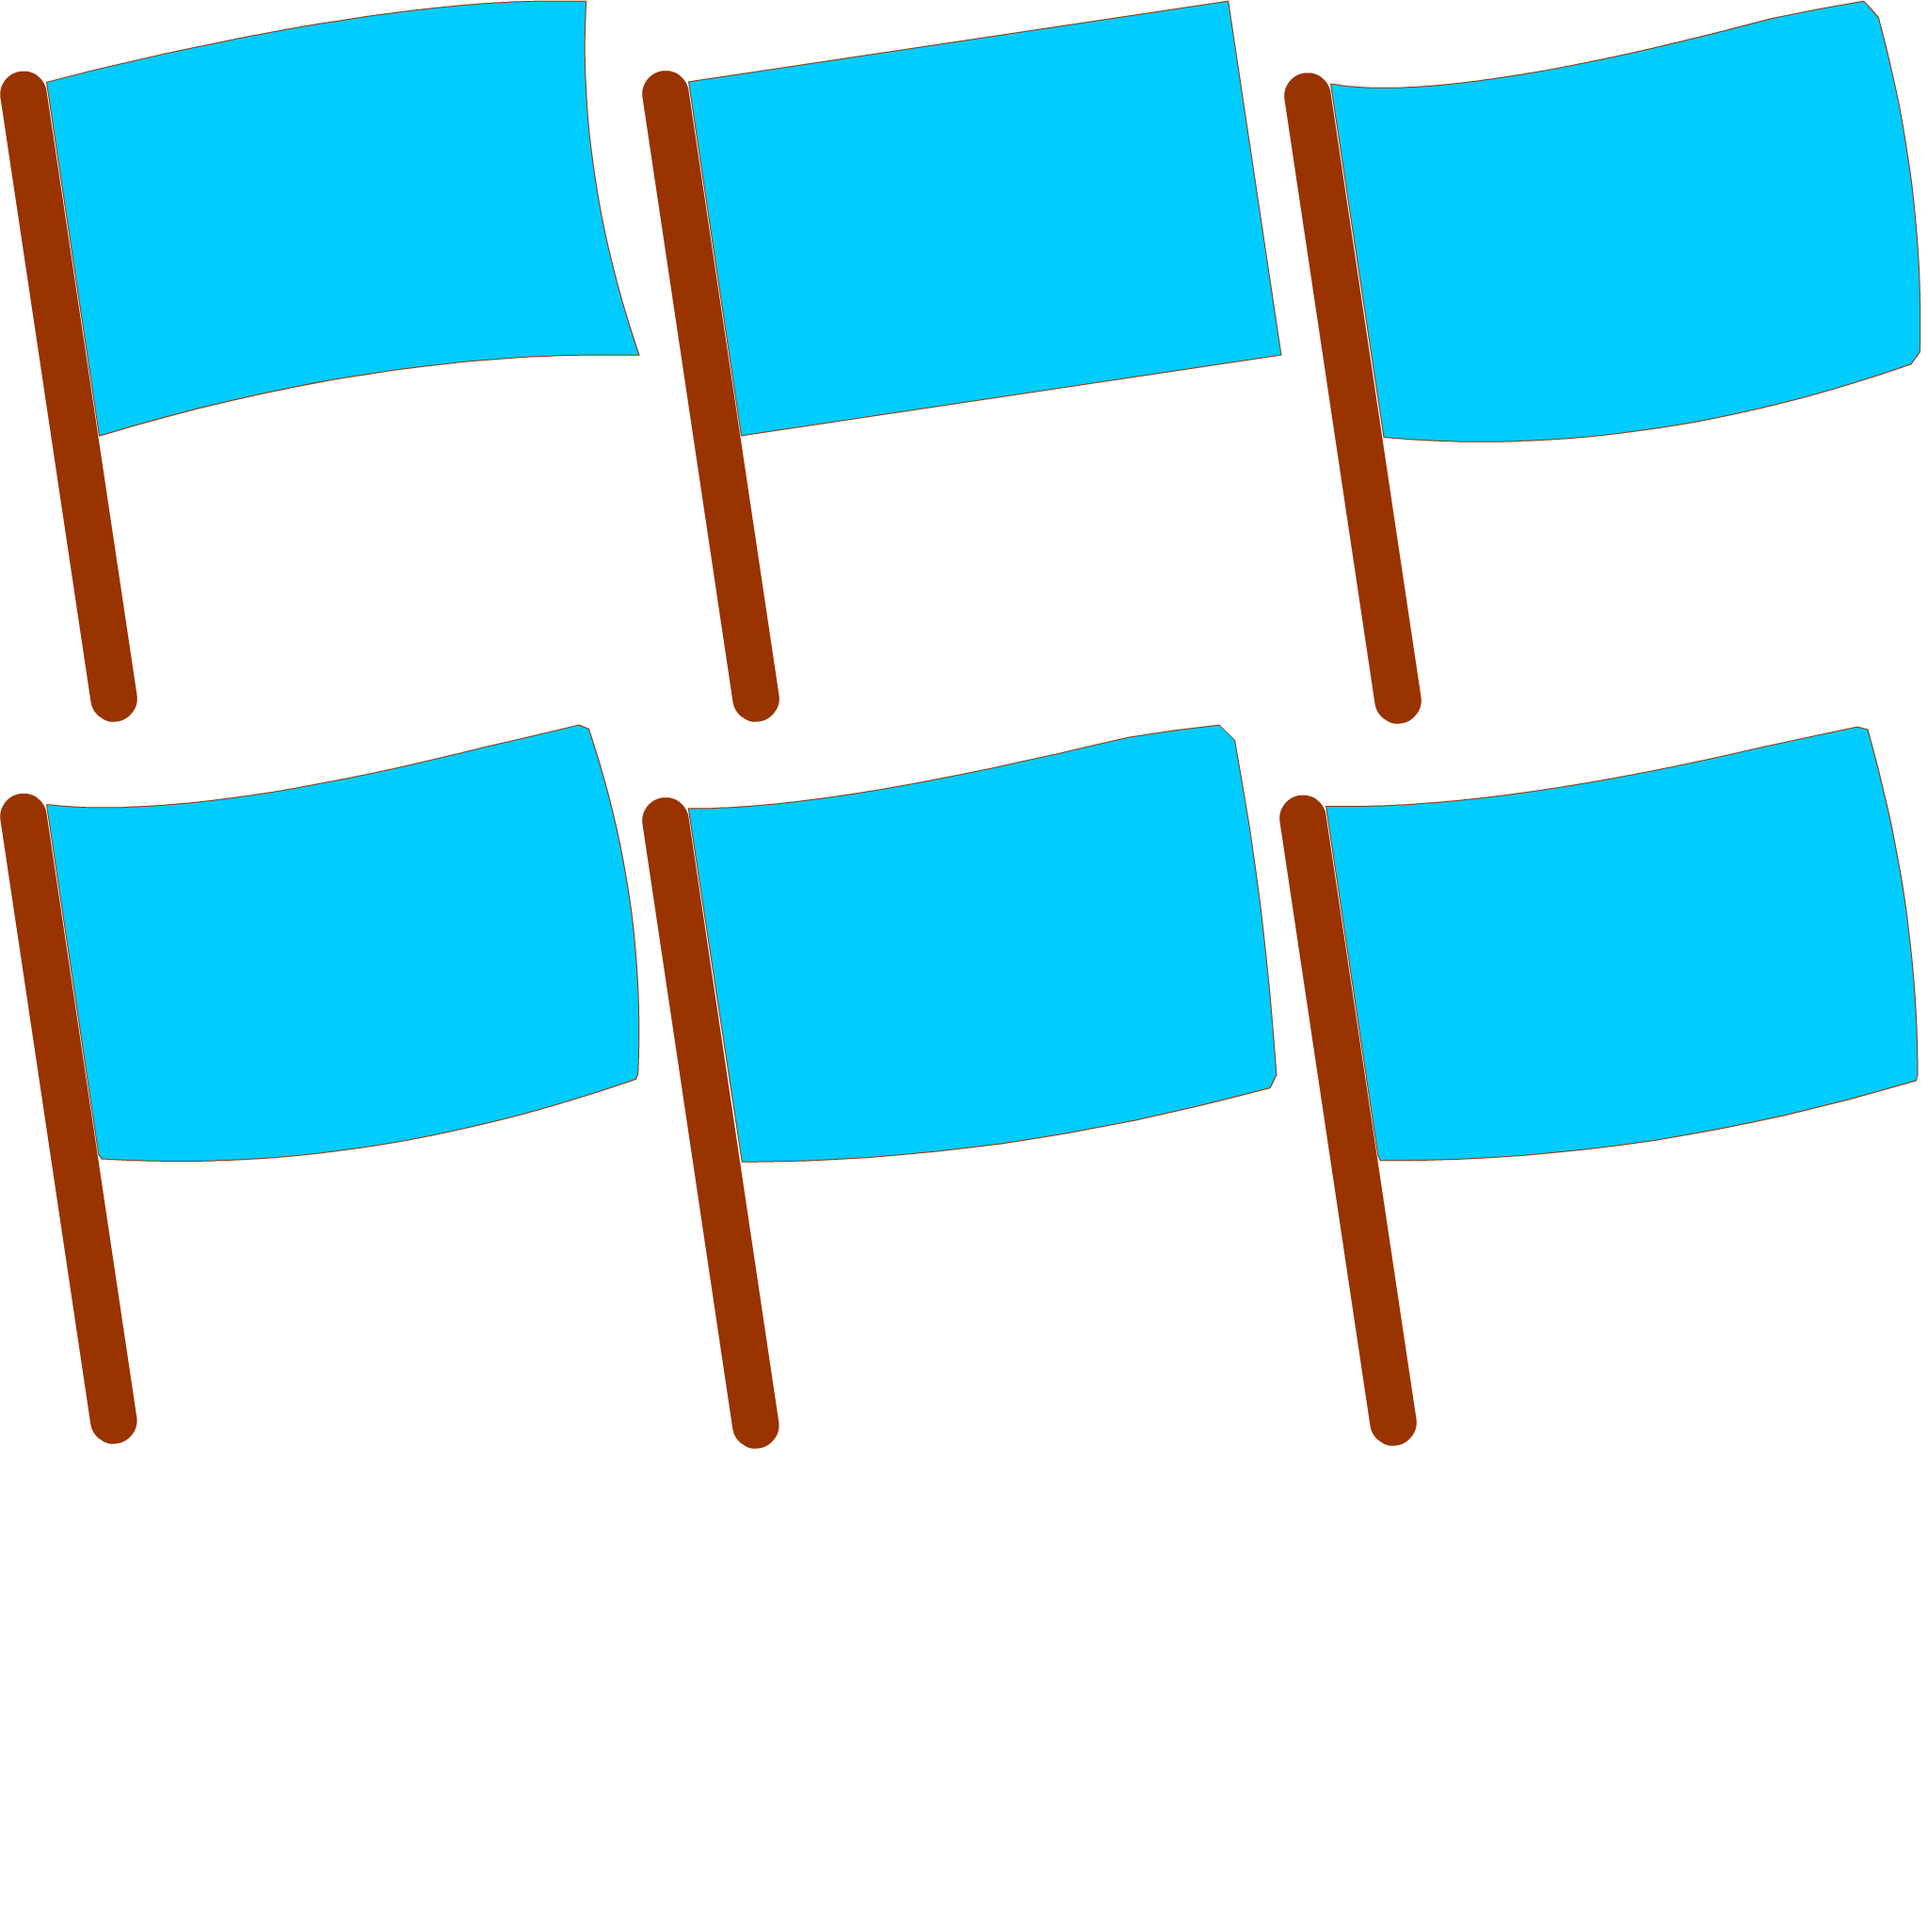
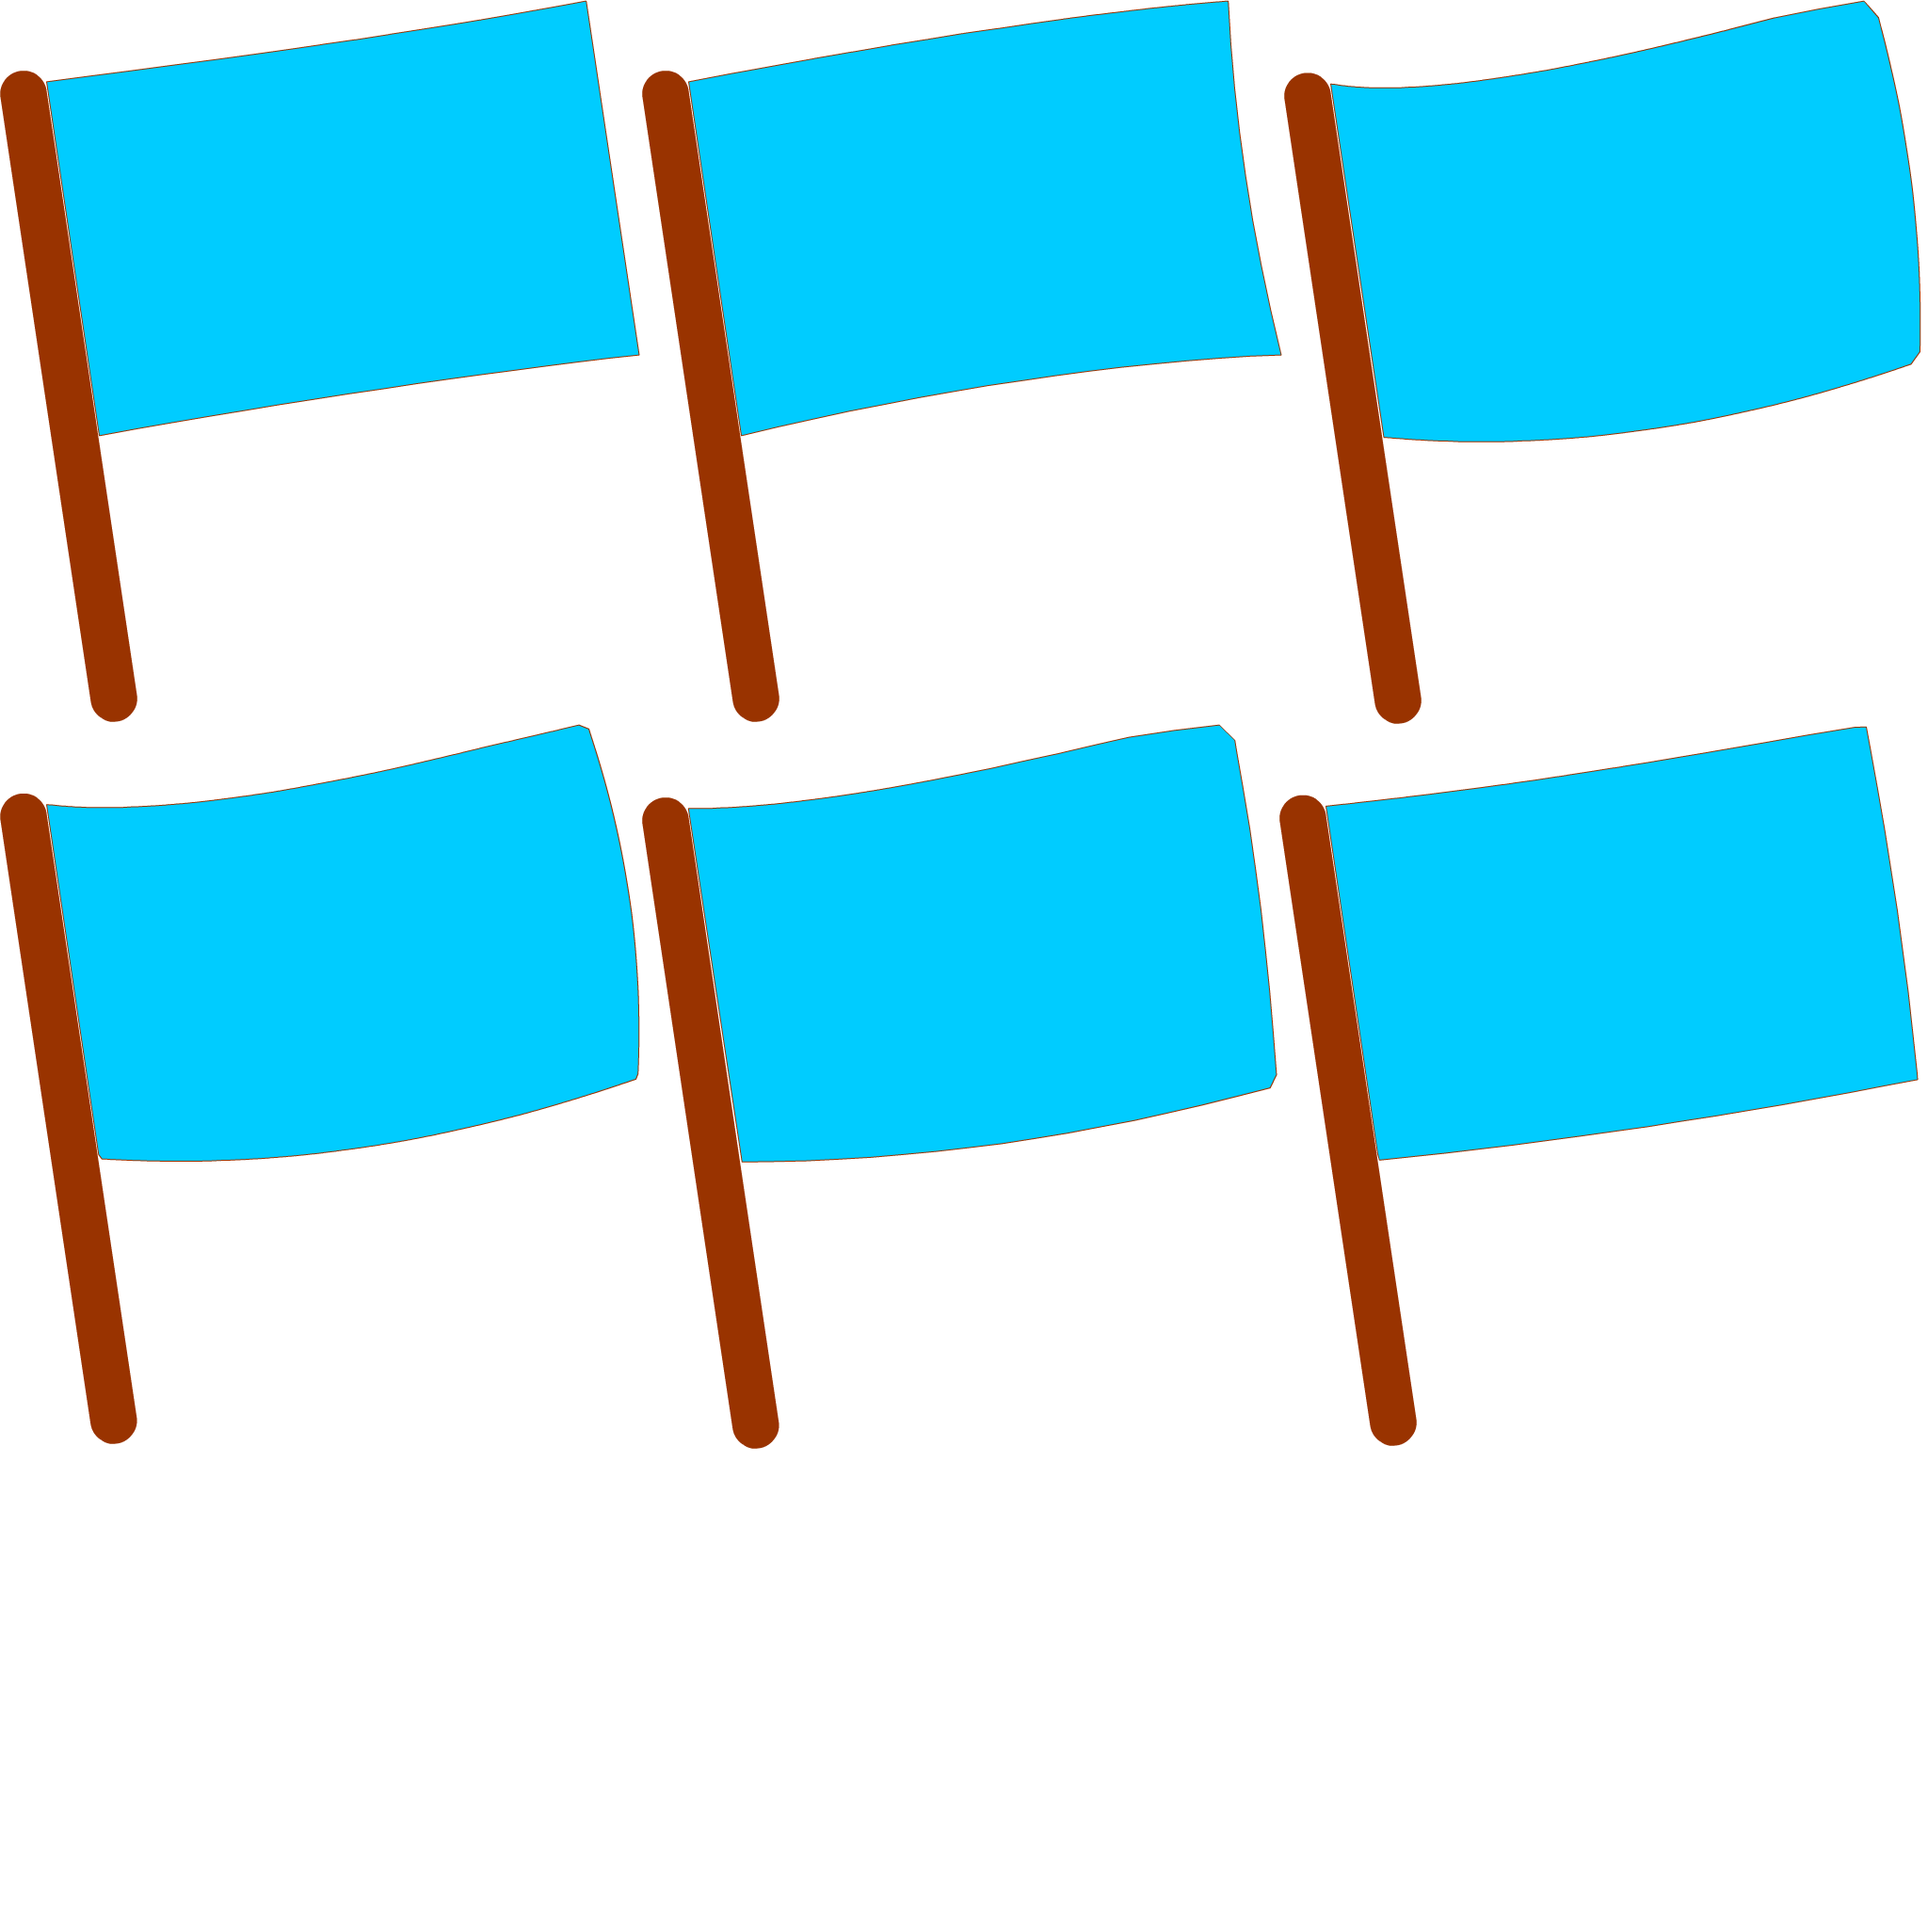
0605

diff --git a/dornimate.js b/dornimate.js
@@ -7,9 +7,9 @@ lib.ssMetadata = [
 		{name:"dornimate_atlas_2", frames: [[682,0,694,766],[0,788,678,785],[0,0,680,786],[680,788,680,782]]},
 		{name:"dornimate_atlas_3", frames: [[0,769,690,766],[0,0,690,767],[692,779,676,779],[692,0,680,777]]},
 		{name:"dornimate_atlas_4", frames: [[688,770,683,766],[0,775,686,766],[682,0,683,768],[0,0,680,773]]},
-		{name:"dornimate_atlas_5", frames: [[0,771,674,774],[0,0,680,769],[1364,0,680,767],[676,771,680,767],[682,0,680,767],[1358,769,680,767]]},
-		{name:"dornimate_atlas_6", frames: [[682,0,680,767],[1359,771,679,765],[0,769,680,765],[1364,0,677,769],[682,769,675,770],[0,0,680,767]]},
-		{name:"dornimate_atlas_7", frames: [[681,772,479,885],[1410,1742,225,225],[1428,1199,220,222],[678,1742,286,233],[1650,1367,185,207],[0,767,679,765],[0,0,679,765],[681,0,674,770],[1357,0,673,771],[0,1534,366,455],[966,1742,220,247],[1188,1742,220,247],[1867,773,169,305],[678,1659,913,81],[1162,773,341,424],[1650,1135,205,230],[1428,1423,205,230],[1837,1392,136,255],[1857,1135,137,255],[1911,1649,132,257],[1505,773,360,360],[1775,1649,134,254],[1637,1576,136,255],[368,1534,308,400],[1162,1199,264,304]]},
+		{name:"dornimate_atlas_5", frames: [[676,771,680,767],[0,771,674,774],[0,0,680,769],[1358,769,680,767],[682,0,680,767],[1364,0,680,767]]},
+		{name:"dornimate_atlas_6", frames: [[1359,771,679,765],[0,769,680,765],[1364,0,677,769],[682,769,675,770],[682,0,680,767],[0,0,680,767]]},
+		{name:"dornimate_atlas_7", frames: [[681,772,479,885],[1410,1742,225,225],[1428,1199,220,222],[678,1742,286,233],[1650,1367,185,207],[0,767,679,765],[0,0,679,765],[681,0,674,770],[1357,0,673,771],[0,1534,366,455],[966,1742,220,247],[1188,1742,220,247],[1867,773,169,305],[678,1659,913,81],[1162,773,341,424],[1428,1423,205,230],[1650,1135,205,230],[1837,1392,136,255],[1857,1135,137,255],[1911,1649,132,257],[1505,773,360,360],[1775,1649,134,254],[1637,1576,136,255],[368,1534,308,400],[1162,1199,264,304]]},
 		{name:"dornimate_atlas_8", frames: [[667,790,152,134],[631,463,47,32],[470,522,152,176],[481,1038,98,103],[667,926,87,211],[631,260,57,65],[240,283,22,23],[206,988,113,105],[952,199,61,55],[240,258,23,23],[111,996,80,116],[955,534,47,27],[0,1114,138,47],[265,0,172,193],[581,1038,75,108],[955,563,44,26],[756,1127,129,43],[936,260,71,214],[952,0,59,64],[229,720,96,266],[747,524,101,264],[120,519,107,262],[355,516,113,261],[120,258,118,259],[826,0,124,258],[133,0,130,256],[0,779,115,201],[631,327,56,66],[439,0,128,258],[265,195,123,259],[0,258,118,261],[821,260,113,262],[390,195,43,40],[117,783,87,211],[952,132,57,65],[910,936,71,214],[952,66,59,64],[571,772,94,264],[470,700,99,261],[850,524,103,258],[0,521,108,256],[631,516,114,254],[390,260,120,254],[697,0,127,253],[193,1095,92,85],[327,779,115,201],[631,395,56,66],[0,0,131,256],[955,476,57,56],[569,0,126,258],[697,255,122,259],[512,260,117,260],[240,456,113,262],[756,936,152,102],[850,784,152,150],[327,982,152,102],[321,1086,155,62],[0,982,109,118],[756,1040,109,85]]}
 ];
 
@@ -130,36 +130,36 @@ p.nominalBounds = new cjs.Rectangle(0,0,2152,1475);
 
 
 (lib.CachedTexturedBitmap_112 = function() {
-	this.initialize(ss["dornimate_atlas_6"]);
+	this.initialize(ss["dornimate_atlas_5"]);
 	this.gotoAndStop(0);
 }).prototype = p = new cjs.Sprite();
 
 
 
 (lib.CachedTexturedBitmap_113 = function() {
-	this.initialize(ss["dornimate_atlas_7"]);
-	this.gotoAndStop(5);
+	this.initialize(ss["dornimate_atlas_6"]);
+	this.gotoAndStop(0);
 }).prototype = p = new cjs.Sprite();
 
 
 
 (lib.CachedTexturedBitmap_114 = function() {
 	this.initialize(ss["dornimate_atlas_7"]);
-	this.gotoAndStop(6);
+	this.gotoAndStop(5);
 }).prototype = p = new cjs.Sprite();
 
 
 
 (lib.CachedTexturedBitmap_115 = function() {
-	this.initialize(ss["dornimate_atlas_6"]);
-	this.gotoAndStop(1);
+	this.initialize(ss["dornimate_atlas_7"]);
+	this.gotoAndStop(6);
 }).prototype = p = new cjs.Sprite();
 
 
 
 (lib.CachedTexturedBitmap_116 = function() {
 	this.initialize(ss["dornimate_atlas_6"]);
-	this.gotoAndStop(2);
+	this.gotoAndStop(1);
 }).prototype = p = new cjs.Sprite();
 
 
@@ -222,14 +222,14 @@ p.nominalBounds = new cjs.Rectangle(0,0,2152,1475);
 
 (lib.CachedTexturedBitmap_124 = function() {
 	this.initialize(ss["dornimate_atlas_6"]);
-	this.gotoAndStop(3);
+	this.gotoAndStop(2);
 }).prototype = p = new cjs.Sprite();
 
 
 
 (lib.CachedTexturedBitmap_125 = function() {
 	this.initialize(ss["dornimate_atlas_6"]);
-	this.gotoAndStop(4);
+	this.gotoAndStop(3);
 }).prototype = p = new cjs.Sprite();
 
 
@@ -250,7 +250,7 @@ p.nominalBounds = new cjs.Rectangle(0,0,2152,1475);
 
 (lib.CachedTexturedBitmap_128 = function() {
 	this.initialize(ss["dornimate_atlas_5"]);
-	this.gotoAndStop(0);
+	this.gotoAndStop(1);
 }).prototype = p = new cjs.Sprite();
 
 
@@ -313,28 +313,28 @@ p.nominalBounds = new cjs.Rectangle(0,0,2152,1475);
 
 (lib.CachedTexturedBitmap_136 = function() {
 	this.initialize(ss["dornimate_atlas_5"]);
-	this.gotoAndStop(1);
+	this.gotoAndStop(2);
 }).prototype = p = new cjs.Sprite();
 
 
 
 (lib.CachedTexturedBitmap_137 = function() {
-	this.initialize(ss["dornimate_atlas_6"]);
-	this.gotoAndStop(5);
+	this.initialize(ss["dornimate_atlas_5"]);
+	this.gotoAndStop(3);
 }).prototype = p = new cjs.Sprite();
 
 
 
 (lib.CachedTexturedBitmap_138 = function() {
 	this.initialize(ss["dornimate_atlas_5"]);
-	this.gotoAndStop(2);
+	this.gotoAndStop(4);
 }).prototype = p = new cjs.Sprite();
 
 
 
 (lib.CachedTexturedBitmap_139 = function() {
-	this.initialize(ss["dornimate_atlas_5"]);
-	this.gotoAndStop(3);
+	this.initialize(ss["dornimate_atlas_6"]);
+	this.gotoAndStop(4);
 }).prototype = p = new cjs.Sprite();
 
 
@@ -348,13 +348,13 @@ p.nominalBounds = new cjs.Rectangle(0,0,2152,1475);
 
 (lib.CachedTexturedBitmap_140 = function() {
 	this.initialize(ss["dornimate_atlas_5"]);
-	this.gotoAndStop(4);
+	this.gotoAndStop(5);
 }).prototype = p = new cjs.Sprite();
 
 
 
 (lib.CachedTexturedBitmap_141 = function() {
-	this.initialize(ss["dornimate_atlas_5"]);
+	this.initialize(ss["dornimate_atlas_6"]);
 	this.gotoAndStop(5);
 }).prototype = p = new cjs.Sprite();
 
@@ -7788,19 +7788,19 @@ lib.properties = {
 	color: "#FFFFFF",
 	opacity: 1.00,
 	manifest: [
-		{src:"images/CachedTexturedBitmap_1.png?1557045054313", id:"CachedTexturedBitmap_1"},
-		{src:"images/dornimate_atlas_.png?1557045053755", id:"dornimate_atlas_"},
-		{src:"images/dornimate_atlas_2.png?1557045053755", id:"dornimate_atlas_2"},
-		{src:"images/dornimate_atlas_3.png?1557045053755", id:"dornimate_atlas_3"},
-		{src:"images/dornimate_atlas_4.png?1557045053756", id:"dornimate_atlas_4"},
-		{src:"images/dornimate_atlas_5.png?1557045053756", id:"dornimate_atlas_5"},
-		{src:"images/dornimate_atlas_6.png?1557045053756", id:"dornimate_atlas_6"},
-		{src:"images/dornimate_atlas_7.png?1557045053757", id:"dornimate_atlas_7"},
-		{src:"images/dornimate_atlas_8.png?1557045053758", id:"dornimate_atlas_8"},
-		{src:"sounds/Audience_ApplauseMatthiew111206899159.mp3?1557045054313", id:"Audience_ApplauseMatthiew111206899159"},
-		{src:"sounds/SceneBlankFacePhotoshop3onlineaudioconvertercom.mp3?1557045054313", id:"SceneBlankFacePhotoshop3onlineaudioconvertercom"},
-		{src:"sounds/פעילי_כחול_לבן_התעקשו_לשמוח_גם_כשהתברר_הניצחון_של_הימין.mp3?1557045054313", id:"פעילי_כחול_לבן_התעקשו_לשמוח_גם_כשהתברר_הניצחון_של_הימין"},
-		{src:"sounds/ראיון_נדיר_של_ראש_הממשלה_בנימין_נתניהו1.mp3?1557045054313", id:"ראיון_נדיר_של_ראש_הממשלה_בנימין_נתניהו1"}
+		{src:"images/CachedTexturedBitmap_1.png", id:"CachedTexturedBitmap_1"},
+		{src:"images/dornimate_atlas_.png", id:"dornimate_atlas_"},
+		{src:"images/dornimate_atlas_2.png", id:"dornimate_atlas_2"},
+		{src:"images/dornimate_atlas_3.png", id:"dornimate_atlas_3"},
+		{src:"images/dornimate_atlas_4.png", id:"dornimate_atlas_4"},
+		{src:"images/dornimate_atlas_5.png", id:"dornimate_atlas_5"},
+		{src:"images/dornimate_atlas_6.png", id:"dornimate_atlas_6"},
+		{src:"images/dornimate_atlas_7.png", id:"dornimate_atlas_7"},
+		{src:"images/dornimate_atlas_8.png", id:"dornimate_atlas_8"},
+		{src:"sounds/Audience_ApplauseMatthiew111206899159.mp3", id:"Audience_ApplauseMatthiew111206899159"},
+		{src:"sounds/SceneBlankFacePhotoshop3onlineaudioconvertercom.mp3", id:"SceneBlankFacePhotoshop3onlineaudioconvertercom"},
+		{src:"sounds/פעילי_כחול_לבן_התעקשו_לשמוח_גם_כשהתברר_הניצחון_של_הימין.mp3", id:"פעילי_כחול_לבן_התעקשו_לשמוח_גם_כשהתברר_הניצחון_של_הימין"},
+		{src:"sounds/ראיון_נדיר_של_ראש_הממשלה_בנימין_נתניהו1.mp3", id:"ראיון_נדיר_של_ראש_הממשלה_בנימין_נתניהו1"}
 	],
 	preloads: []
 };

diff --git a/dornimate.html b/dornimate.html
@@ -14,7 +14,7 @@
 <title>dornimate</title>
 <!-- write your code here -->
 <script src="https://code.createjs.com/createjs-2015.11.26.min.js"></script>
-<script src="dornimate.js?1557045054435"></script>
+<script src="dornimate.js"></script>
 <script>
 var canvas, stage, exportRoot, anim_container, dom_overlay_container, fnStartAnimation;
 function init() {
